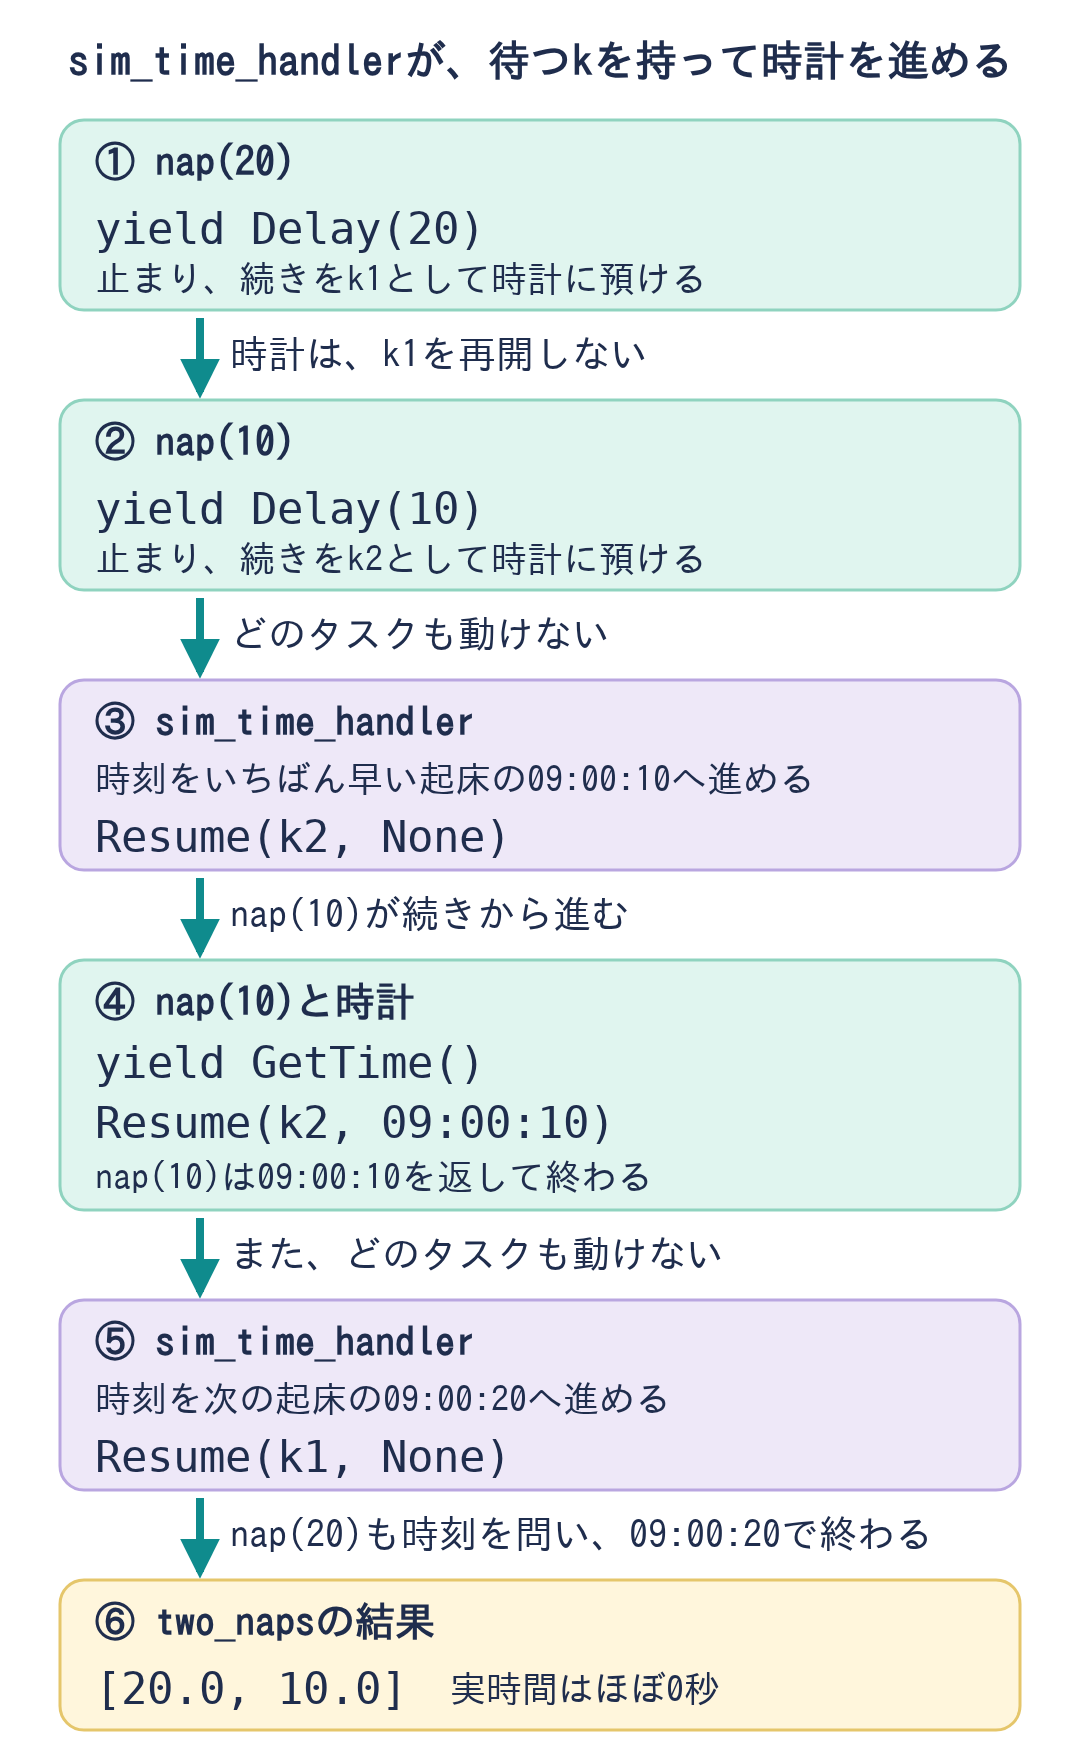
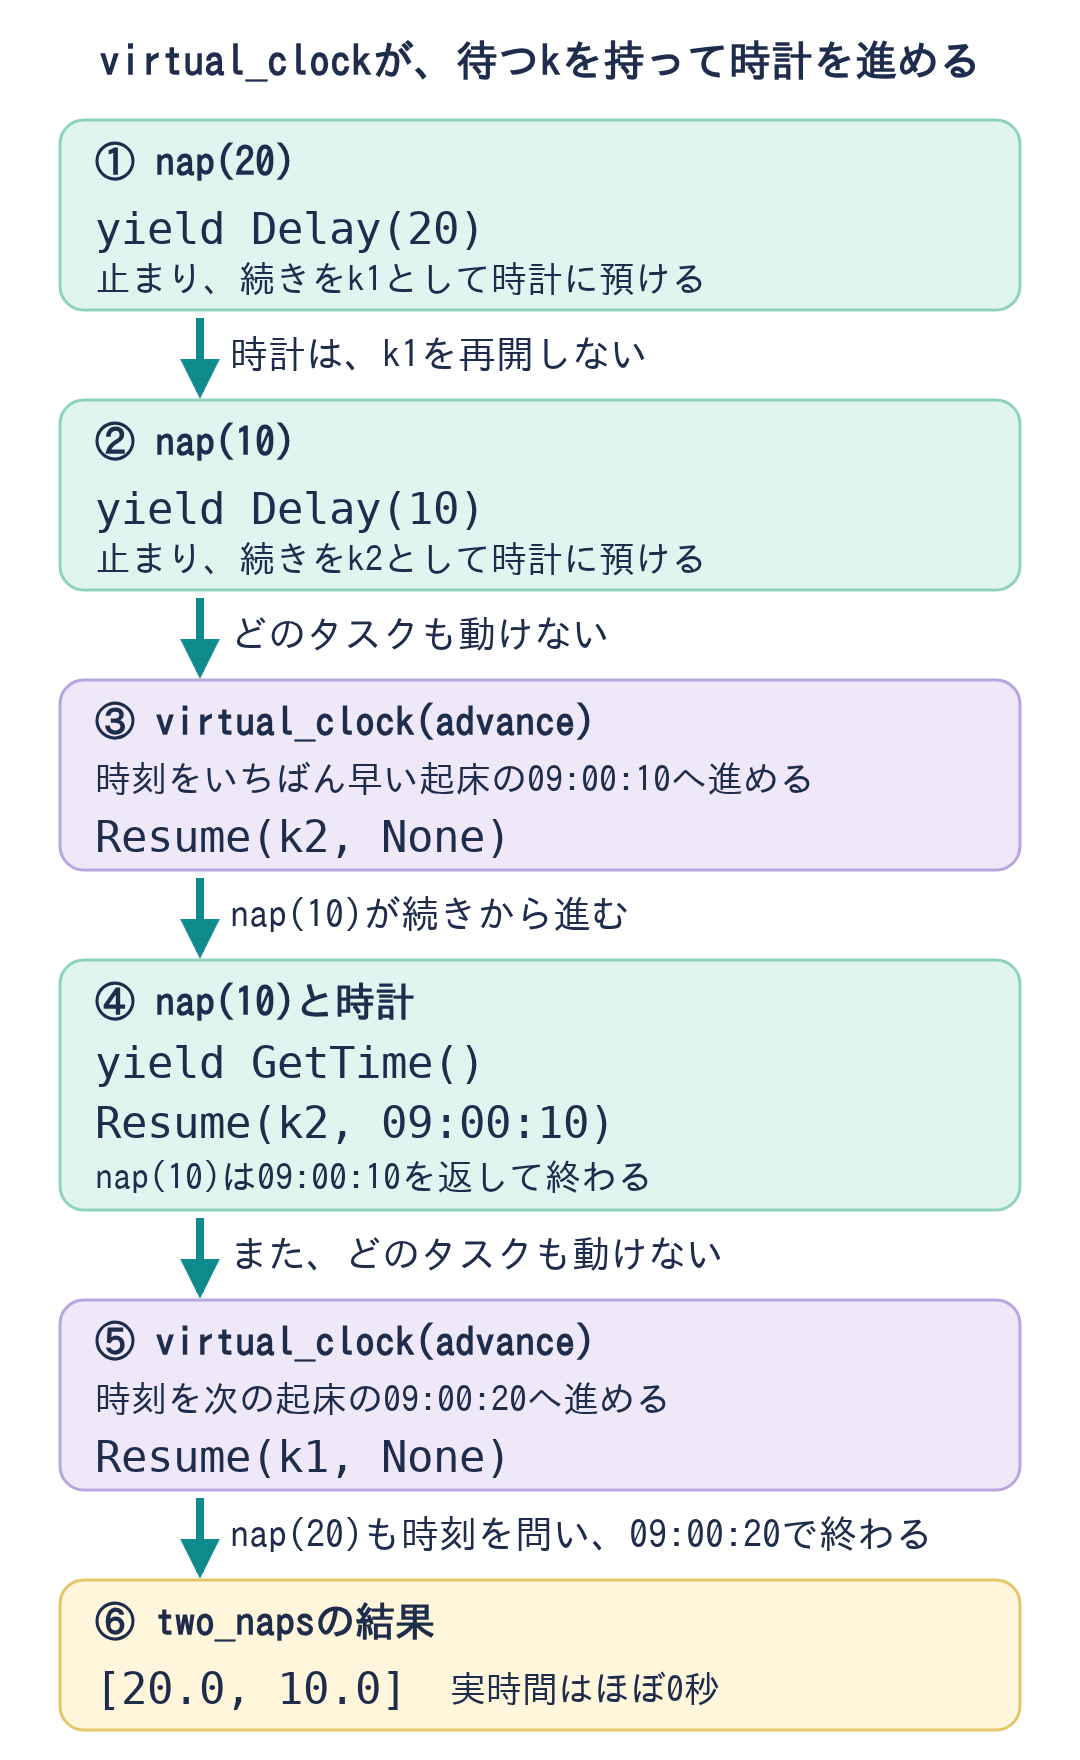
Zenn time: run every example with doeff alone, as in the English post
The third Zenn post follows the doeff-only English post (14c7cd8c6): its
own Delay, WaitUntil and GetTime effects, virtual_clock and wall_clock
written on the core scheduler effects, a timeout made of an alarm task,
Race and Cancel, a test that asks the clock with GetTime, and
`pip install doeff pytest`. await_handler is installed without the
factory call. The two figures now name virtual_clock and were rendered
again from their SVGs; the captions, the figure specs and the manifest
follow.

reviews/time-check.py runs the excerpts as the modules clock and report
(report.py and test_report.py import from them) and passes with wheels
built from doeff main a2e13c527, with no doeff-time installed.

Ai-Conversation: c-WEVQD7R16XY36PDJ1BAKJZVMKB

Changed region(s): [[0.0611, 0.0, 0.9472, 0.0625], [0.1833, 0.75, 0.55, 0.7812], [0.1833, 0.4062, 0.55, 0.4375]]

diff --git a/publications/zenn-use-cases-v0/reviews/time-check.py b/publications/zenn-use-cases-v0/reviews/time-check.py
@@ -2,7 +2,6 @@
 # /// script
 # dependencies = [
 #     "doeff",
-#     "doeff-time",
 # ]
 #
 # [tool.verify_pypi]
@@ -12,9 +11,10 @@
 
 - 例は英語の版と同じ: 記事のPython・bashの枠は、コメントを除くと英語の記事(docs/articles/time-as-an-effect.md)の
   枠と1つずつ同じ。textの枠(印字)は、英語の版の枠と同じ。
-- 載せたとおりに走る: clock.pyとreport.pyの抜粋を、それぞれのファイルの名前空間で掲載の順に走らせる。頭の行の無い実行の
-  行の印字を、直後のtextの枠と照らす(仮想の時間の行は3回走らせ、3回とも同じ)。test_report.pyは、report.pyの抜粋を
-  モジュールreportとして読ませて走らせる。実時間の行(20秒かかる)は、--real-timeの時だけそのまま走らせ、既定では
+- doeffだけで走る: 例は時間のエフェクトと時計を自分で定義し、doeffのほかのパッケージを入れない。
+- 載せたとおりに走る: clock.pyとreport.pyの抜粋を、それぞれのモジュール(clock・report)の名前空間で掲載の順に走らせる。頭の行の無い実行の
+  行の印字を、直後のtextの枠と照らす(仮想の時間の行は3回走らせ、3回とも同じ)。report.pyとtest_report.pyのfrom clock・
+  from reportは、その2つのモジュールを読む。実時間の行(20秒かかる)は、--real-timeの時だけそのまま走らせ、既定では
   短い待ち(0.2秒と0.1秒)の同じ組に替える。
 - 本文の主張: ハンドラ無しのnapはDelayでUnhandledEffectになる・仮想の時間の3日分は1秒かからない・実時間の時計でも
   withinの期限が作成を打ち切る。
@@ -24,10 +24,10 @@
 import contextlib  # 例の印字を受け取る。
 import io  # 例の印字をためる。
 import re  # 記事の枠を抜き出す。
-import sys  # 実時間の行を走らせるかを引数で選び、reportをモジュールとして読ませる。
+import sys  # 実時間の行を走らせるかを引数で選び、clockとreportをモジュールとして読ませる。
 import time  # 仮想の時間の実行にかかった実時間を測る。
 import tokenize  # Pythonの枠からコメントを除く。
-import types  # report.pyの抜粋を、モジュールreportにする。
+import types  # clock.pyとreport.pyの抜粋を、モジュールclockとreportにする。
 from dataclasses import dataclass  # 走らせた抜粋の組を、欄の名で持つ。
 from pathlib import Path  # リポジトリの中の原稿を読む。
 
@@ -39,7 +39,7 @@ english = (ROOT / "docs/articles/time-as-an-effect.md").read_text()  # 揃える
 FENCE = re.compile(r"^```(python|text|bash)\n(.*?)^```$", re.S | re.M)  # 記事の枠(mermaidの図は英語の版だけに在る)。
 ENGLISH_FENCE = re.compile(r"^~~~(python|text|bash)\n(.*?)^~~~$", re.S | re.M)  # 英語の記事の枠。
 HEADER = re.compile(r"# (\w+\.py)(?:\(抜粋\))?")  # Pythonの枠の頭の行(# clock.py(抜粋)ならclock.py)。
-WALL = "print(run(wall_clock(two_naps())))"  # 実時間で20秒かかる行。
+WALL = "print(run(real(two_naps())))"  # 実時間で20秒かかる行。
 # report.pyの抜粋が読む名のうち、ファイルの頭(抜粋の外)で読み込む物。完全なreport.pyの2行目と同じ。
 REPORT_HEAD = "from datetime import datetime, timedelta, timezone\n"
 
@@ -89,8 +89,11 @@ class Excerpts:
 
 
 def run_fences(fences: list[tuple[str, str]], real_time: bool) -> Excerpts:
-    """抜粋をファイルごとの名前空間で走らせ、実行の行の印字を直後のtextの枠と照らす。"""
-    spaces = {"clock.py": {"__name__": "clock"}, "report.py": {"__name__": "report"}}  # ファイルごとの名前空間。
+    """抜粋をファイルごとのモジュールの名前空間で走らせ、実行の行の印字を直後のtextの枠と照らす。"""
+    modules = {"clock.py": types.ModuleType("clock"), "report.py": types.ModuleType("report")}  # ファイルごとのモジュール。
+    for module in modules.values():  # report.pyのfrom clock …と、test_report.pyのfrom report …が読む。
+        sys.modules[module.__name__] = module  # 後の抜粋で足した名も、読む時に見える。
+    spaces = {name: module.__dict__ for name, module in modules.items()}  # ファイルごとの名前空間。
     exec(REPORT_HEAD, spaces["report.py"])  # report.pyの頭の読み込み(抜粋の外)。
     current = ""  # 頭の行の無い実行の行を走らせる、直前の抜粋のファイル。
     test_report = ""  # test_report.pyの枠。
@@ -111,7 +114,7 @@ def run_fences(fences: list[tuple[str, str]], real_time: bool) -> Excerpts:
             line = body if real_time else body.replace("two_naps()", "two_naps(0.2, 0.1)")  # 既定は短い待ち。
             slow, fast = map(float, printed(line, spaces[current]).strip().strip("[]").split(", "))  # 2つの起床の秒数。
             wait = 20 if real_time else 0.2  # 遅いタスクの待ち。
-            assert wait <= slow < wait + 5, (slow, fast)  # 遅いタスクは、待ちの少し後に起きる(本文「[20.05, 10.05]ほど」)。
+            assert wait <= slow < wait + 5, (slow, fast)  # 遅いタスクは、待ちの少し後に起きる(本文「[20.0, 10.0]より少し大きい数」)。
             assert wait / 2 <= fast < slow, (slow, fast)  # 速いタスクは、その半分の待ちの後、遅いタスクより先に起きる。
             print(f"OK: 実時間の時計({'20秒と10秒' if real_time else '0.2秒と0.1秒'}): [{slow}, {fast}]")
             ran += 1  # 照らした。
@@ -124,10 +127,7 @@ def run_fences(fences: list[tuple[str, str]], real_time: bool) -> Excerpts:
 
 
 def run_test_report(excerpts: Excerpts) -> None:
-    """test_report.pyを、report.pyの抜粋をモジュールreportとして読ませて走らせる。"""
-    report = types.ModuleType("report")  # 抜粋から作るモジュール。
-    report.__dict__.update(excerpts.report)  # 抜粋の定義を移す。
-    sys.modules["report"] = report  # test_report.pyのfrom report import …が読む。
+    """test_report.pyを、clock.pyとreport.pyの抜粋のモジュール(run_fencesが置いた物)を読ませて走らせる。"""
     namespace = {"__name__": "test_report"}  # テストの名前空間。
     exec(compile(excerpts.test_report, "doeff-time.md:test_report.py", "exec"), namespace)  # 定義する。
     tests = [name for name in namespace if name.startswith("test_")]  # pytestが集める関数。
@@ -147,13 +147,13 @@ def check_claims(excerpts: Excerpts) -> None:
     except Exception as error:  # doeffのUnhandledEffectは、Pythonの例外として外へ出る。
         stopped = f"{type(error).__name__}: {error}"  # 止まった訳。
     assert stopped.startswith("UnhandledEffect"), stopped  # 受け手のいないエフェクトで止まった。
-    assert "DelayEffect" in stopped, stopped  # 止まったのはDelayの所。
+    assert "Delay(seconds=20)" in stopped, stopped  # 止まったのはDelayの所。
     began = time.perf_counter()  # 仮想の時間の3日分の、実時間を測る。
     report["run"](report["simulated"](report["daily_report"]([3, 12, 5])))  # 金曜の夕方から水曜の朝まで。
     seconds = time.perf_counter() - began  # かかった実時間(本文「数ミリ秒」— 混んだ機械でも落ちない上限で見る)。
     assert seconds < 5.0, seconds  # 待たずに終わる。
     print(f"OK: 仮想の時間の3日分の実時間 {seconds * 1000:.1f}ミリ秒")
-    wall = clock["wall_clock"]  # 実時間の時計。
+    wall = clock["real"]  # 実時間の時計で走らせる組。
     began = time.perf_counter()  # 期限で打ち切る実行の実時間を測る。
     cut = report["run"](wall(report["within"](0.2, report["build"](1))))  # 60秒の作成に、0.2秒の期限。
     seconds = time.perf_counter() - began  # かかった実時間。

diff --git a/publications/zenn-use-cases-v0/package-coverage.md b/publications/zenn-use-cases-v0/package-coverage.md
@@ -42,7 +42,7 @@
 | `doeff-seedream` | Seedream画像生成・編集と共通画像エフェクトのハンドラ | [image](doeff-image.md) | [定義・説明](../../packages/doeff-seedream/README.md) | [所在](../../packages/doeff-seedream/tests/test_edit_image.py) | 実生成未実行 |
 | `doeff-system-one` | 較正された判定器に問う`Judge` effect。問いの3種類（choice・noul・score）と答えの型、確信度を見る純粋な道具、テスト用のscripted handler | [hooks](doeff-hooks.md) | [定義・説明](../../packages/doeff-system-one/README.md) | [所在](../../packages/doeff-system-one/tests/test_scripted_handler.py) | provider非依存の層。[hooks](doeff-hooks.md)は`Judge`を評価器の問いとして短く載せる。問いの3種類は紹介していない。実際の判定器は呼んでいない |
 | `doeff-test-target` | 解析・挙動のテスト用シナリオ/エフェクト/ハンドラ | [tooling](doeff-tooling.md) | [定義・説明](../../packages/doeff-test-target/src/doeff_test_target/orchestrate.py) | [所在](../../packages/doeff-test-target/tests/test_smoke.py) | 利用者向け業務機能として売らない |
-| `doeff-time` | Delay/WaitUntil/GetTime/ScheduleAt/SetTime、同期/asyncio/仮想時間 | [time](doeff-time.md) | [定義・説明](../../packages/doeff-time/src/doeff_time/handlers/sim_time.py) | [所在](../../packages/doeff-time/tests/conftest.py) | 仮想時間と実時間は既存記事例で実行確認 |
+| `doeff-time` | Delay/WaitUntil/GetTime/ScheduleAt/SetTime、同期/asyncio/仮想時間 | [完全な例](examples/scheduling.py)(2026-10-30から、[time](doeff-time.md)はdoeffだけで時計を自分で書く形にし、doeff-timeを使わない) | [定義・説明](../../packages/doeff-time/src/doeff_time/handlers/sim_time.py) | [所在](../../packages/doeff-time/tests/conftest.py) | 仮想時間と実時間は既存記事例で実行確認 |
 | `doeff-traverse` | Traverse/Reduce/Zip/Inspect/SortBy/Take/Fail/Skip、逐次/並行/失敗の戦略 | [traverse](doeff-traverse.md) | [定義・説明](../../packages/doeff-traverse/doeff_traverse/handlers.py) | [所在](../../packages/doeff-traverse/tests/test_memory_leak_multi_day.py) | Hy for/do/From/When/Reduceも掲載。旧foldは公開マクロになく置換。継続の複製ではなく新しい計算を生成 |
 | `doeff-validation` | 独立した検査を全部走らせ、落ちた検査の失敗を全部集めて`ValidationException`で知らせる。doeff-traverseの上の薄い層 | 記事なし（土台は[traverse](doeff-traverse.md)） | [定義・説明](../../packages/doeff-validation/README.md) | [所在](../../packages/doeff-validation/tests/test_validate.py) | 逐次・並行・最初の失敗で止める、の選択はtraverseのhandlerで行う。Hyの`validate`/`check`マクロはdoeff-hy側にある。記事には登場しない |
 | `doeff-vm` | Pythonバインディング・VM接続・継続/トレース等の公開プリミティブ | [VM](doeff-vm.md) | [定義・説明](../../packages/doeff-vm/Cargo.toml) | [所在](../../packages/doeff-vm/tests/test_pyvm.py) | 独立した業務機能としては扱わない |

diff --git a/publications/zenn-use-cases-v0/reviews/time.md b/publications/zenn-use-cases-v0/reviews/time.md
@@ -128,3 +128,24 @@ uv run --no-project python publications/zenn-use-cases-v0/verify_pypi.py --doeff
 uv run --no-project python publications/zenn-use-cases-v0/verify_pypi.py --doeff 0.8.0 --python 3.12 time  # OK(実時間の行は[20.062792, 10.059815])。
 uv run --no-project python publications/zenn-use-cases-v0/render_release.py doeff-time.md  # 60字を越える文0個・です・ます以外で終わる文0個。
 ```
+
+## 2026-10-30 doeffだけで例が動く形に(英語の版と組で)
+
+英語の版(`docs/articles/time-as-an-effect.md`)と同じく、例からdoeff-timeを外し、doeffだけ(`pip install doeff`)で動く形にした。
+
+- 軸は同じ: 時間をエフェクトで頼み、`k`を受け取るハンドラが、続きをいつ動かすかを決める。
+- エフェクト: `Delay`・`WaitUntil`・`GetTime`を、clock.pyで`EffectBase`のデータのクラスとして定義した。
+- 時計: 仮想の時計は、記事の中で書く`virtual_clock`にした(入門の時計に`WaitUntil`を足した物)。実時間の時計は、`asyncio.sleep`を`Await`で頼む`wall_clock`にし、`await_handler`は()で呼ばずに付ける。
+- タイムアウト: `within`は、`RaceWithin`の代わりに、待つだけの`alarm`のタスクと`Race`・`Cancel`で作った。そのため`timeline`の印字に、`alarm`の`wait 600 s`の2行が増えた。
+- テスト: `SimClock`を読む代わりに、テストのプログラムが走り終えた後で`GetTime`を問う。
+- 限界と試す: `ScheduleAt`とdoeff-timeの版の行を外し、取り消された待ちが`sleepers`に残る事を書いた。install の行は`pip install doeff pytest`、版はdoeff 0.8.1(次の版の案)にした。
+- 図: 2枚の時計の名を`virtual_clock`に替えて描き直した(制作記録は`imagegen/records/time.md`)。
+
+```sh
+/tmp/a3-py.sh -W error publications/zenn-use-cases-v0/reviews/time-check.py  # mainのwheelだけの環境(doeff-timeは無い)で全部OK。
+/tmp/a3-py.sh -W error publications/zenn-use-cases-v0/reviews/time-check.py --real-time  # 実時間の行は[20.064193, 10.072707]。
+uv run --no-project python publications/zenn-use-cases-v0/render_release.py doeff-time.md  # 60字を越える文0個・です・ます以外で終わる文0個。
+```
+
+- `/tmp/a3-py.sh`は、doeffのmain(a2e13c527)から`uv build --wheel`で組んだdoeff・doeff-core-effects・doeff-vmの3つとpytestだけを入れて、CPython 3.14で走らせる命令。
+- PyPIのdoeff 0.8.0では、`await_handler`を()無しで付ける形が無いので走らない。`verify_pypi.py`で確かめるのは、次の版が出てから。

diff --git a/publications/zenn-use-cases-v0/feature-examples.md b/publications/zenn-use-cases-v0/feature-examples.md
@@ -13,8 +13,8 @@
 | LLM chat / streaming / structured / embedding | [llm](doeff-llm.md)・[完全な例](examples/llm_pipeline.py) | 4段階を@doで合成。実SDKのSSE解析器へ固定データを渡し、各チャンクのAwaitとエラー伝播を確認 |
 | OpenAI / Gemini / OpenRouterの本番ハンドラ | [llm](doeff-llm.md)（本文にコード） | 接続関数を掲載。生のハンドラと取り付け関数の差、応答形式の差を明記。実APIは未実行 |
 | 画像生成・編集 / Gemini / Seedream | [image](doeff-image.md)・[完全な例](examples/image_pipeline.py) | 生成結果→編集を両テスト用ハンドラで確認。本番の接続コードは未実行 |
-| Delay / GetTime / 実時間・仮想時間・同期待機 | [time](doeff-time.md)（本文にコード）・[完全な例](examples/scheduling.py) | 本文で自作の時計ticking・仮想時間・asyncioの実時間を確認。同期の実時間は完全な例で確認 |
-| WaitUntil / ScheduleAt / SetTime / 優先度 | [time](doeff-time.md)（本文にコード）・[完全な例](examples/scheduling.py) | 本文でWaitUntil・RaceWithin・SimClockを確認し、ScheduleAtの本体のハンドラスコープの条件を限界に明記。時計設定・予約・優先度指定は完全な例で確認 |
+| Delay / GetTime / 実時間・仮想時間・同期待機 | [time](doeff-time.md)（本文にコード）・[完全な例](examples/scheduling.py) | 本文はdoeffだけで、エフェクトと時計(ticking・virtual_clock・asyncioのwall_clock)を自分で書いて確認。doeff-timeの同期の実時間は完全な例で確認 |
+| WaitUntil / ScheduleAt / SetTime / 優先度 | [time](doeff-time.md)（本文にコード）・[完全な例](examples/scheduling.py) | 本文で自作のWaitUntilと、RaceとCancelで作るタイムアウトと、テストから時計に問うGetTimeを確認。doeff-timeのScheduleAt・時計設定・優先度指定は完全な例で確認 |
 | 関数の色 / yieldの歴史 / Await | [color](doeff-color.md)（本文にコード） | Programとハンドラの例、新旧構文。初期asyncioは歴史用コードとして区別 |
 | Ask / DI / Local / lazy_ask / env_var_ask | [di](doeff-di.md)・[完全な例](examples/dependencies.py) | 局所変更・復元・依存の取得4回・作成2回と環境変数の供給を確認 |
 | Reader / State / Writer / Try | [composition](doeff-composition.md)・[完全な例](examples/composition.py) | 成功と失敗を確認。この構成で状態とログが自動では戻らないこともassert |

diff --git a/publications/zenn-use-cases-v0/imagegen/records/time.md b/publications/zenn-use-cases-v0/imagegen/records/time.md
@@ -12,3 +12,7 @@
 ## 英語の3本目の版に合わせて2枚を描き直す（2026-10-29追記）
 
 記事を英語の3本目「Time as an effect」の版に書き直した。time-conceptは、同じtwo_napsを自作の時計tickingとdoeff-timeのsim_time_handlerで走らせた時の待ちの並びを、帯の図にした。time-flowは、英語の記事のsequenceDiagramを、やりとり1つずつの縦の図にした。どちらも手で書いたSVG(../../visuals/time-concept.svg・time-flow.svg)で、render_svg.mjsで幅1080のPNGにした(作り方は[time-svg-source.txt](../time-svg-source.txt))。
+
+## 例をdoeffだけで動く形にして、2枚の時計の名を替える（2026-10-30追記）
+
+記事の例を、doeff-timeを使わずdoeffだけで動く形にした。時計は記事の中で書く`virtual_clock`になったので、time-conceptの下の枠の名を「virtual_clock(仮想の時計)」に、time-flowの見出しと③⑤の枠の名を`virtual_clock`(③⑤は時計を進めるタスクの名を添えて「virtual_clock(advance)」)に替えた。帯・やりとり・値は前の版のまま。SVGを直し、render_svg.mjs(playwright 1.62.1のchromium)で幅1080のPNGにして、目で確かめた。
